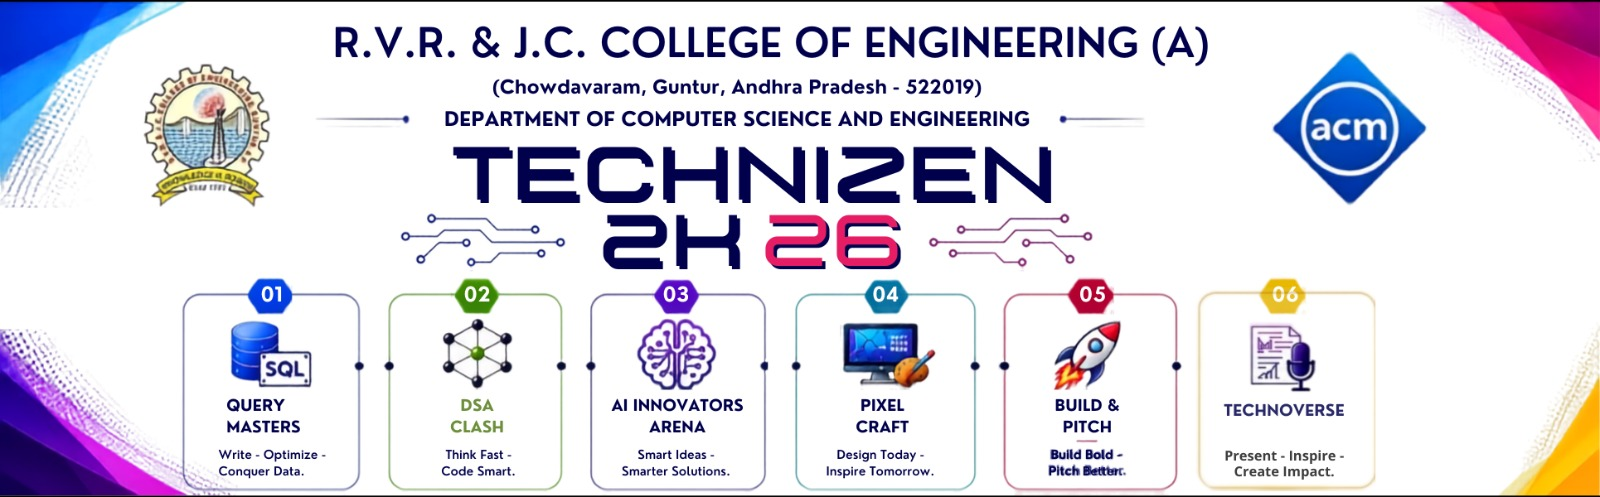
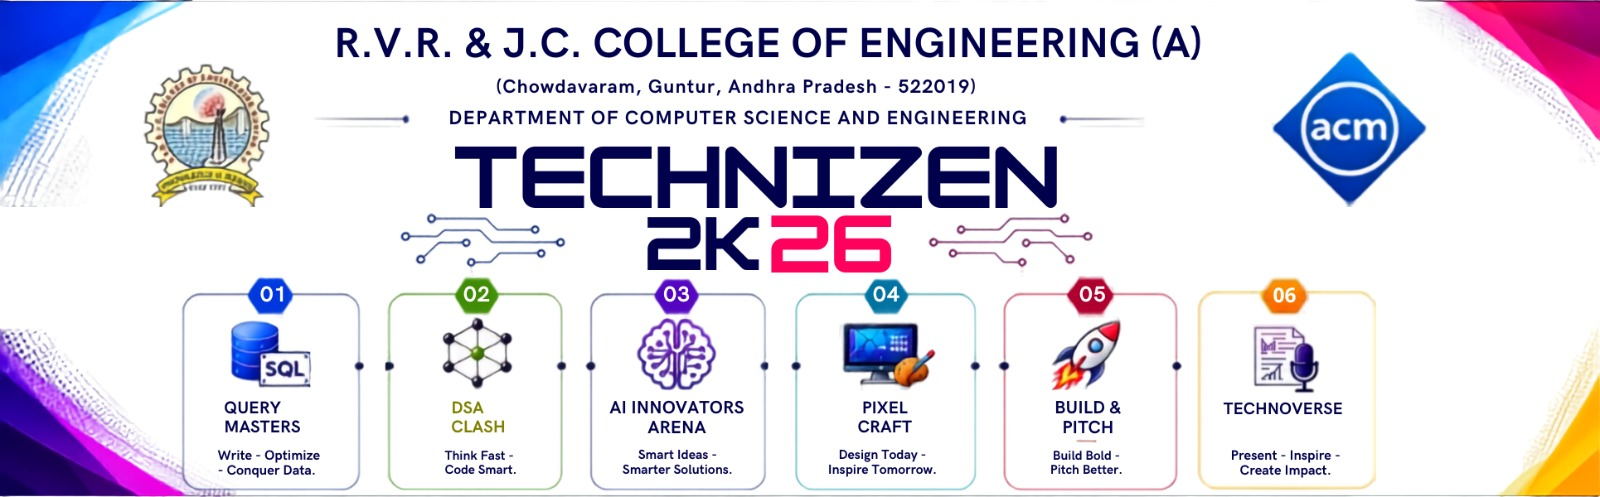
about page hero slider adjustments

diff --git a/assets/css/style.css b/assets/css/style.css
@@ -704,16 +704,16 @@ p {
   display: flex;
   justify-content: flex-start;
   align-items: center;
-  margin-top: -22px;
-  margin-left: -40px;
+  margin-top: 0;
+  margin-left: 0;
   margin-bottom: var(--space-md);
   width: 100%;
 }
 
 .ev-back-btn,
 .ev-back-tag {
-  margin-top: -14px;
-  margin-left: -40px;
+  margin-top: 0;
+  margin-left: 0;
   display: inline-flex;
   align-items: center;
   gap: 4px;
@@ -5837,19 +5837,27 @@ table.data-table td.placeholder {
    ----------------------------------------------------------- */
 @media (max-width: 768px) {
 
-  /* Universal mobile hero banner scaling for all phone sizes (320px to 768px) */
+  /* Full edge-to-edge mobile hero banner (0px left/right space, 0px top/bottom space) */
   .about-hero-banner {
-    min-height: clamp(250px, 55vh, 420px);
-    height: auto;
-    max-height: 480px;
-    padding: 24px 0 40px;
+    width: 100% !important;
+    max-width: 100% !important;
+    height: auto !important;
+    aspect-ratio: 3.6 / 1 !important;
+    min-height: 0 !important;
+    max-height: none !important;
+    padding: 0 !important;
+    margin: 0 !important;
+    background: transparent !important;
+    box-sizing: border-box !important;
+    overflow: hidden !important;
   }
 
-  /* Mobile view image swap for Technizen poster slide */
-  .about-hero-slide.technizen-slide {
-    background-image: url('../images/mobile-responsive/mobile-view-technizen.jpeg') !important;
-    background-size: cover;
-    background-position: center center;
+  .about-hero-slide {
+    background-size: 100% 100% !important;
+    background-position: center center !important;
+    background-repeat: no-repeat !important;
+    width: 100% !important;
+    height: 100% !important;
   }
 
   /* Fix content overflow — margin-left: -35px bleeds off screen */
@@ -5889,26 +5897,26 @@ table.data-table td.placeholder {
 
   /* Pull slider controls in from the edge */
   .about-hero-controls {
-    right: 12px;
-    bottom: 10px;
-    gap: 8px;
+    right: 8px !important;
+    bottom: 6px !important;
+    gap: 5px !important;
   }
 
   /* Scale down slider arrow buttons */
   .hero-slider-arrow {
-    width: 30px;
-    height: 30px;
-    font-size: 0.78rem;
+    width: 24px !important;
+    height: 24px !important;
+    font-size: 0.65rem !important;
   }
 
   /* Scale down dots */
   .about-hero-dot {
-    width: 8px;
-    height: 8px;
+    width: 6px !important;
+    height: 6px !important;
   }
 
   .about-hero-dot.active {
-    width: 20px;
+    width: 16px !important;
   }
 }
 

diff --git a/events/sub-events/technizen1.html b/events/sub-events/technizen1.html
@@ -43,7 +43,7 @@
       <div class="hero-top-bar">
         <a href="../../events.html" class="ev-back-btn">&larr; Back to Events</a>
       </div>
-      <div class="crumb"><a href="../technizen.html" style="color:var(--gold);">Technizen</a> / Sub-events</div>
+      <div class="crumb"><a href="../inter-college-events.html" style="color:var(--gold);">Inter-College Events</a> / Sub-events</div>
       <h1 id="sub-view-title">TECHNIZEN 2K26</h1>
       <p>Select a sub-event to view details, rules, and register.</p>
     </div>
@@ -162,7 +162,7 @@
         </div>
         <div>
           <h4>Event Categories</h4>
-          <a href="../technizen.html">Technizen</a>
+          <a href="../inter-college-events.html">Inter-College Events</a>
           <a href="../hour-of-code.html">Hour of Code</a>
           <a href="../outreach-programs.html">Outreach Programs</a>
           <a href="../guest-lectures.html">Guest Lectures</a>

diff --git a/assets/css/event-detail.css b/assets/css/event-detail.css
@@ -16,15 +16,15 @@
   display: flex;
   align-items: center;
   gap: var(--space-xs);
-  margin-top: -22px;
-  margin-left: -40px;
+  margin-top: 0;
+  margin-left: 0;
   margin-bottom: var(--space-md);
   flex-wrap: wrap;
 }
 
 .event-detail-hero .back-link {
-  margin-top: -14px;
-  margin-left: -40px;
+  margin-top: 0;
+  margin-left: 0;
   display: inline-flex;
   align-items: center;
   gap: 4px;

diff --git a/events/guest-lectures.html b/events/guest-lectures.html
@@ -100,7 +100,7 @@
         </div>
         <div>
           <h4>Event Categories</h4>
-          <a href="../events.html">Technizen</a>
+          <a href="inter-college-events.html">Inter-College Events</a>
           <a href="hour-of-code.html">Hour of Code</a>
           <a href="outreach-programs.html">Outreach Programs</a>
           <a href="guest-lectures.html">Guest Lectures</a>

diff --git a/events/hour-of-code.html b/events/hour-of-code.html
@@ -105,7 +105,7 @@
         </div>
         <div>
           <h4>Event Categories</h4>
-          <a href="../events.html">Technizen</a>
+          <a href="inter-college-events.html">Inter-College Events</a>
           <a href="hour-of-code.html">Hour of Code</a>
           <a href="outreach-programs.html">Outreach Programs</a>
           <a href="guest-lectures.html">Guest Lectures</a>

diff --git a/events/inter-college-events.html b/events/inter-college-events.html
@@ -105,7 +105,7 @@
         </div>
         <div>
           <h4>Event Categories</h4>
-          <a href="technizen.html">Technizen</a>
+          <a href="inter-college-events.html">Inter-College Events</a>
           <a href="hour-of-code.html">Hour of Code</a>
           <a href="outreach-programs.html">Outreach Programs</a>
           <a href="guest-lectures.html">Guest Lectures</a>

diff --git a/events/intra-college-events.html b/events/intra-college-events.html
@@ -98,7 +98,7 @@
         </div>
         <div>
           <h4>Event Categories</h4>
-          <a href="../events.html">Technizen</a>
+          <a href="inter-college-events.html">Inter-College Events</a>
           <a href="hour-of-code.html">Hour of Code</a>
           <a href="outreach-programs.html">Outreach Programs</a>
           <a href="guest-lectures.html">Guest Lectures</a>

diff --git a/events/outreach-programs.html b/events/outreach-programs.html
@@ -98,7 +98,7 @@
         </div>
         <div>
           <h4>Event Categories</h4>
-          <a href="../events.html">Technizen</a>
+          <a href="inter-college-events.html">Inter-College Events</a>
           <a href="hour-of-code.html">Hour of Code</a>
           <a href="outreach-programs.html">Outreach Programs</a>
           <a href="guest-lectures.html">Guest Lectures</a>

diff --git a/events/workshops.html b/events/workshops.html
@@ -98,7 +98,7 @@
         </div>
         <div>
           <h4>Event Categories</h4>
-          <a href="../events.html">Technizen</a>
+          <a href="inter-college-events.html">Inter-College Events</a>
           <a href="hour-of-code.html">Hour of Code</a>
           <a href="outreach-programs.html">Outreach Programs</a>
           <a href="guest-lectures.html">Guest Lectures</a>

diff --git a/events.html b/events.html
@@ -557,7 +557,7 @@
         var card = document.createElement('a');
         card.className = 'ev-cat-card';
         if (k === 'technizen') {
-          card.setAttribute('href', 'events/technizen.html');
+          card.setAttribute('href', 'events/inter-college-events.html');
         } else if (cat.url) {
           card.setAttribute('href', cat.url);
         }

diff --git a/assets/js/events-data.js b/assets/js/events-data.js
@@ -14,7 +14,7 @@ var EV_CATEGORIES = {
     cssVar: '--ev-technizen',
     slug: 'technizen',
     description: 'Annual inter-collegiate technical fest featuring competitive sub-events across core domain tracks.',
-    url: 'events/technizen.html',
+    url: 'events/inter-college-events.html',
     openMaster: 'INTER COLLEGIATE TECH EVENTS'
   },
   hourOfCode: {
